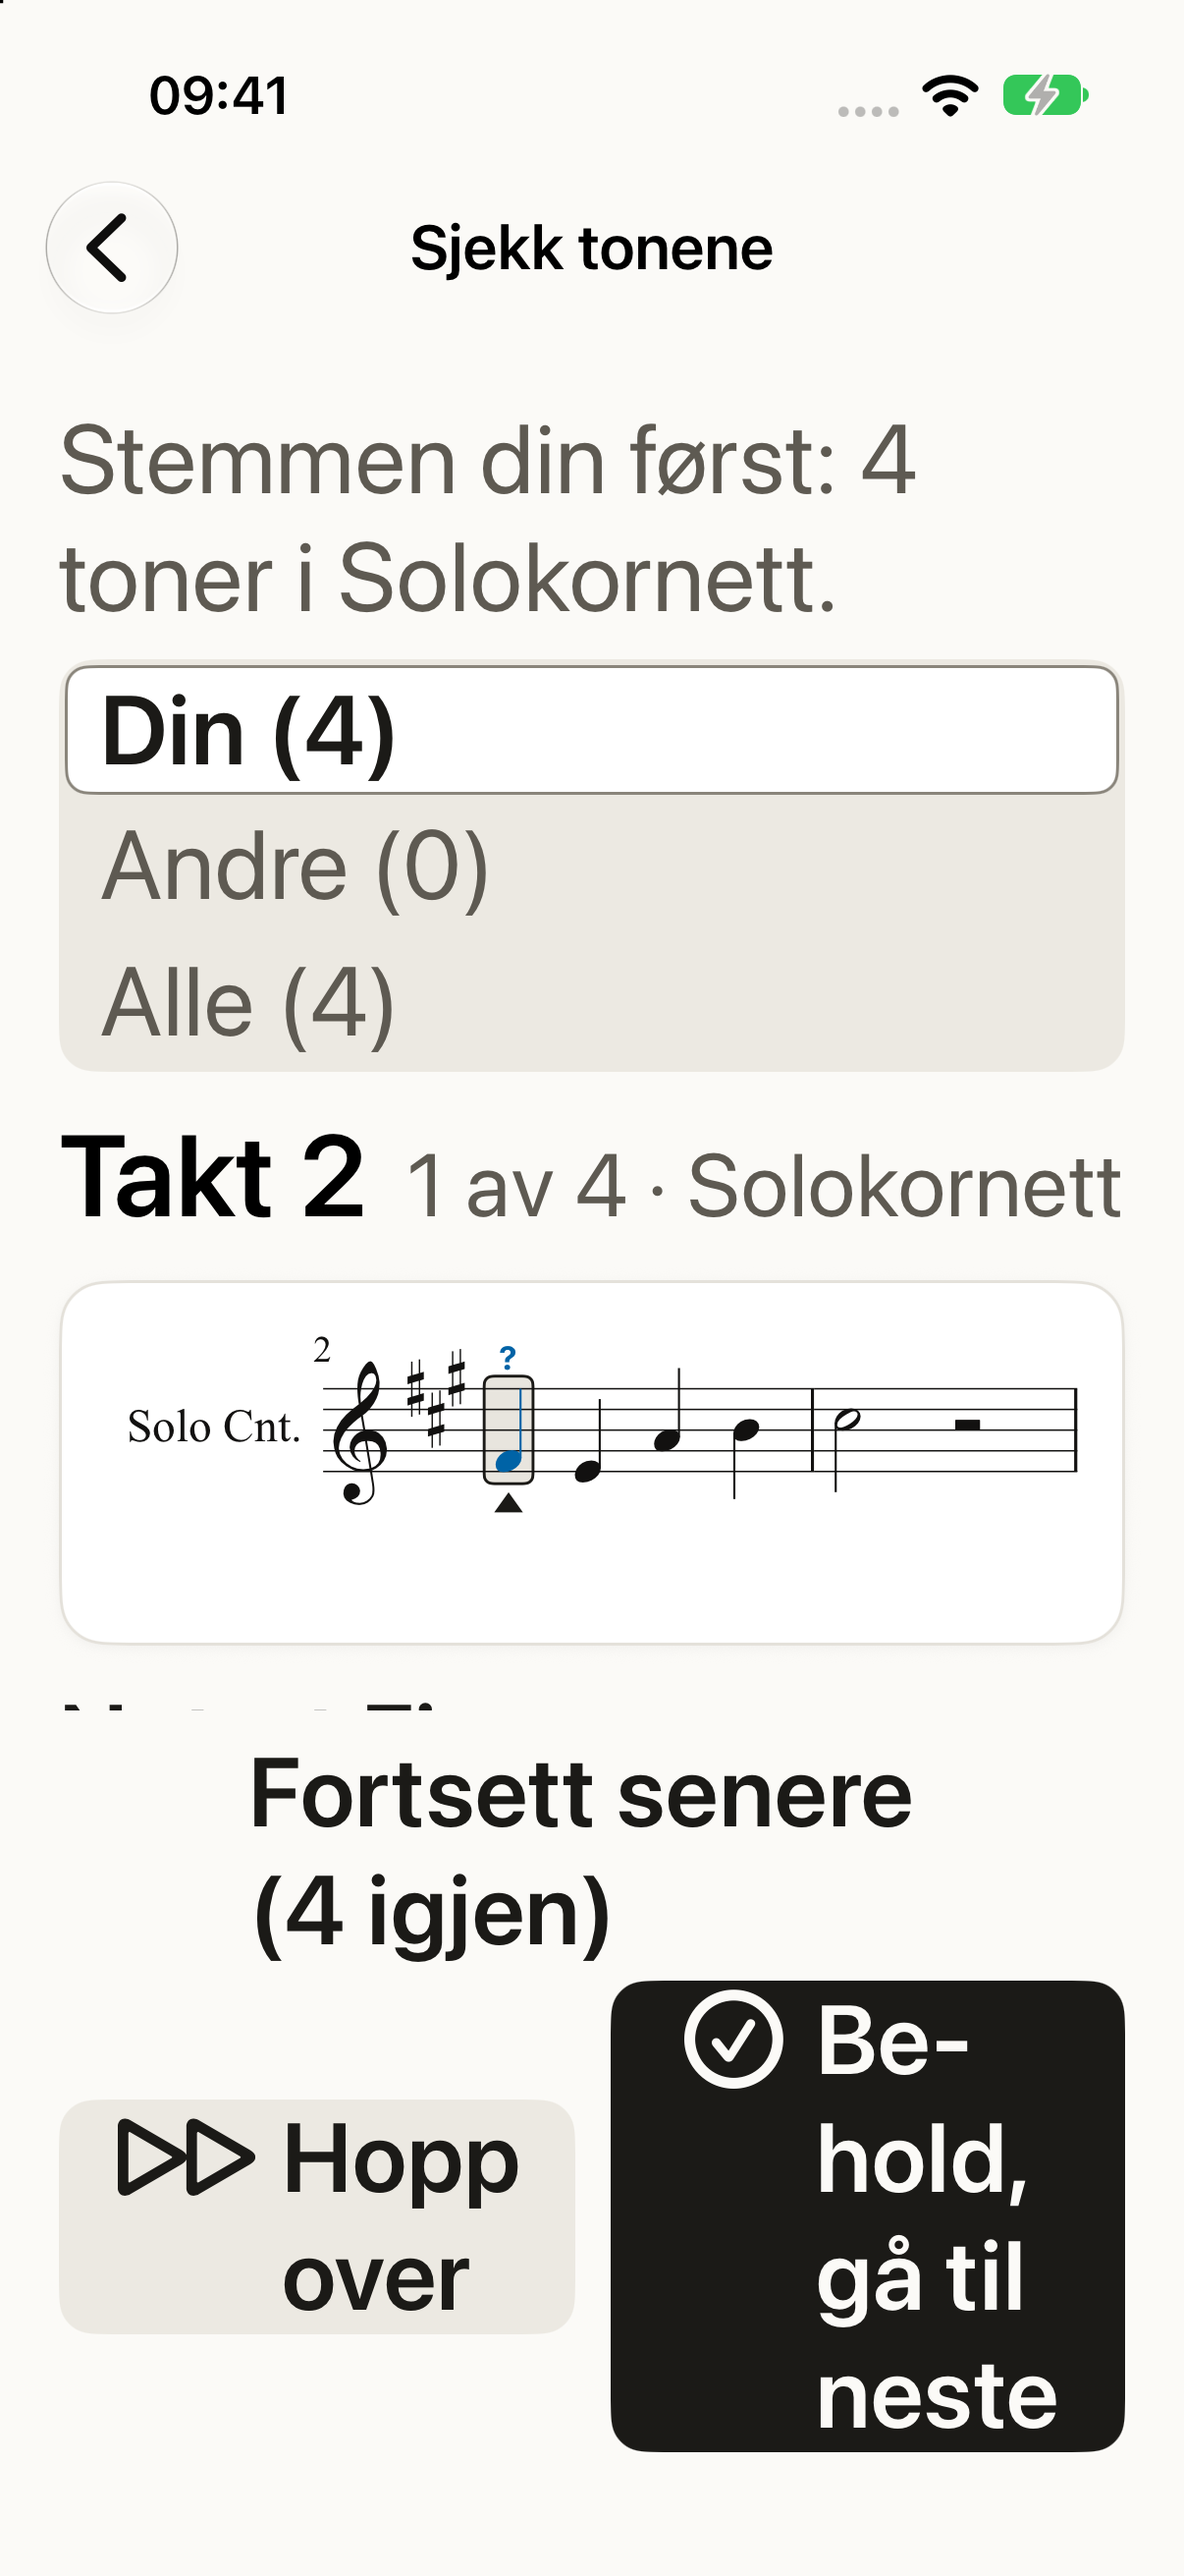
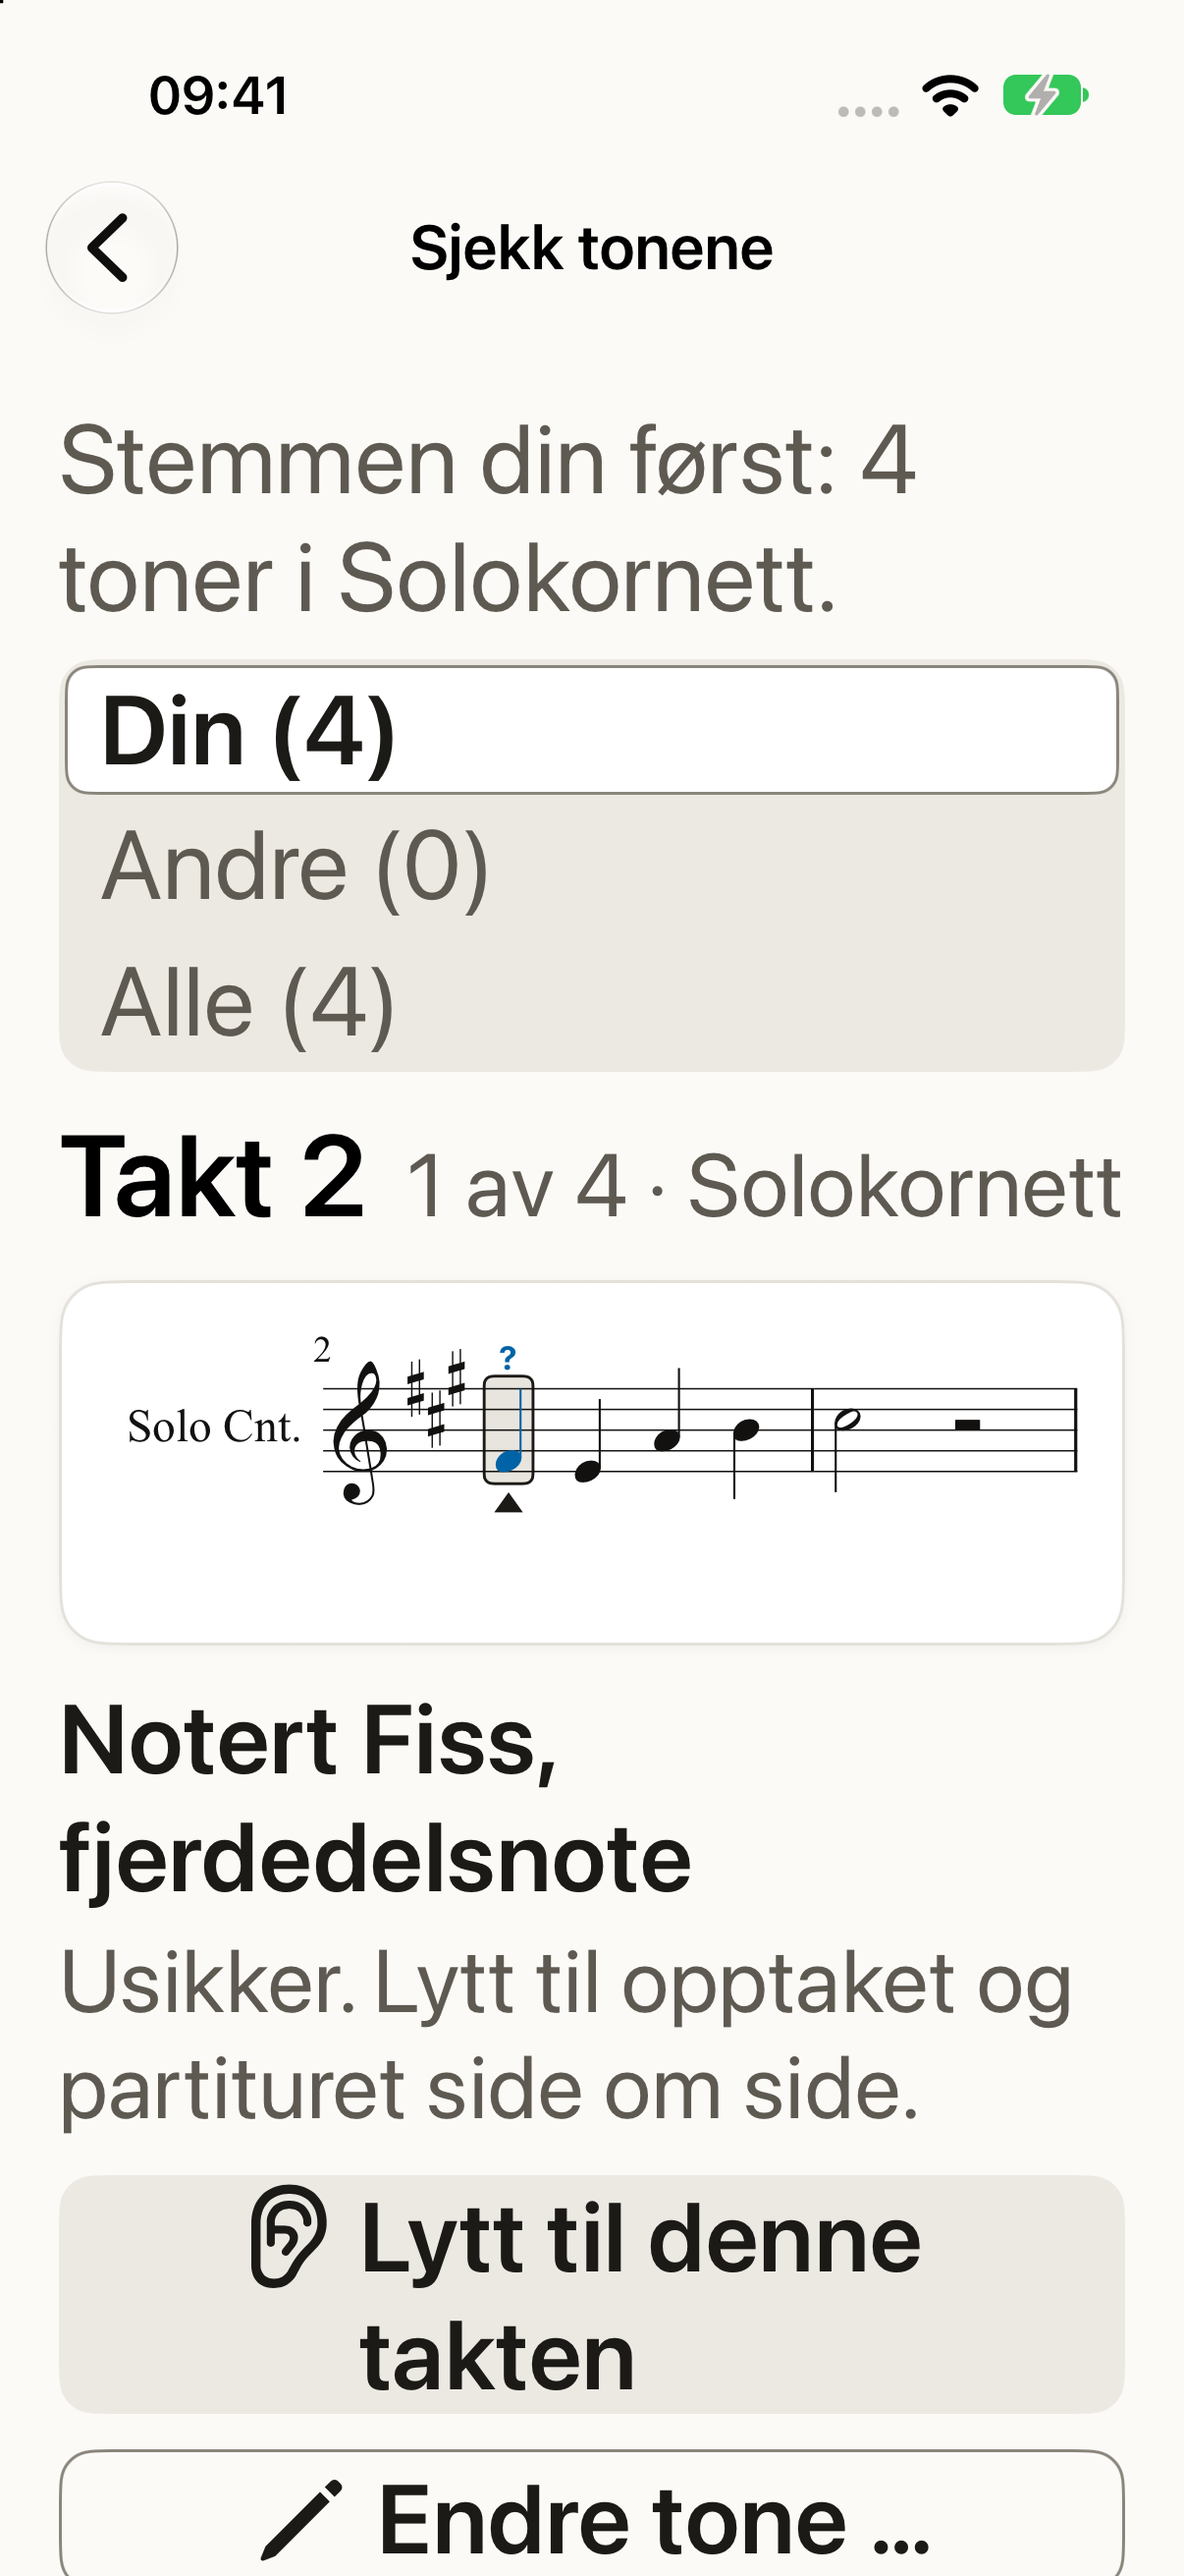
fix(apple): review actions follow the note at the accessibility text sizes
At the largest Dynamic Type sizes the bar pinned at the bottom of the
phone (Finish later, Skip, Keep) took half the screen, cut the note's
description off under it, and broke the button labels mid-word. At
those sizes the actions now follow the note in the page, as on the Mac,
with Keep and Skip one above the other at full width. The large-text
review screenshots are retaken.

diff --git a/apps/apple/App/Views/ReviewView.swift b/apps/apple/App/Views/ReviewView.swift
@@ -8,6 +8,7 @@ import TranscriptionKit
 struct ReviewView: View {
     @Environment(AppModel.self) private var app
     @Environment(\.horizontalSizeClass) private var horizontalSizeClass
+    @Environment(\.dynamicTypeSize) private var typeSize
     let piece: Piece
 
     @State private var model: PracticeModel?
@@ -27,6 +28,11 @@ struct ReviewView: View {
 
     /// Triage: your own part first (very unsure first), then the other parts, then all.
     enum Filter: Hashable { case mine, others, all }
+
+    /// Skip and Keep follow the note instead of staying pinned at the bottom: on the Mac, and at the
+    /// accessibility text sizes, where a pinned bar would cover most of the phone and leave the note
+    /// half hidden under it.
+    private var actionsFollow: Bool { PageActions.followContent || typeSize.isAccessibilitySize }
 
     private var wide: Bool {
         #if os(macOS)
@@ -104,7 +110,7 @@ struct ReviewView: View {
                 }
             }
         }
-        .bottomActions { if !allOpen.isEmpty, item != nil { actionBar } }
+        .safeAreaInset(edge: .bottom) { if !actionsFollow, !allOpen.isEmpty, item != nil { actionBar } }
         .alert("Finish checking later?", isPresented: $confirmLater) {
             Button("Finish later") { finish() }
             Button("Keep checking", role: .cancel) {}
@@ -241,8 +247,14 @@ struct ReviewView: View {
                     .buttonStyle(.plainText)
                     .accessibilityIdentifier("keepRestOfBar")
                 }
-                // Mac: Skip and Keep follow the note, before the evidence
-                if PageActions.followContent { actionButtons.padding(.top, Space.s2).layoutProbe("pageActions") }
+                // Mac and the largest text sizes: Skip and Keep follow the note, before the evidence
+                if actionsFollow {
+                    VStack(spacing: Space.s2) {
+                        if !wide { finishLaterButton }
+                        actionButtons
+                    }
+                    .padding(.top, Space.s2).layoutProbe("pageActions")
+                }
                 EvidencePanel(note: evidenceFor(it), fifths: fifths(it), part: model.score.parts[it.partIndex])
             }
             .accessibilityElement(children: .contain)
@@ -332,11 +344,7 @@ struct ReviewView: View {
 
     private var actionBar: some View {
         VStack(spacing: Space.s1) {
-            if !wide {
-                Button("Finish later (\(open.count) left)") { confirmLater = true }
-                    .buttonStyle(.plainText)
-                    .accessibilityIdentifier("openScore")
-            }
+            if !wide { finishLaterButton }
             actionButtons
         }
         .padding(.horizontal, wide ? Space.s8 : Space.s5)
@@ -344,7 +352,35 @@ struct ReviewView: View {
         .background(Color.Brasscribe.bg)
     }
 
-    private var actionButtons: some View {
+    private var finishLaterButton: some View {
+        Button("Finish later (\(open.count) left)") { confirmLater = true }
+            .buttonStyle(.plainText)
+            .accessibilityIdentifier("openScore")
+    }
+
+    /// Side by side; at the accessibility text sizes on a phone, where the labels would break
+    /// mid-word, one above the other at full width, Keep first.
+    @ViewBuilder private var actionButtons: some View {
+        if typeSize.isAccessibilitySize, !wide {
+            VStack(spacing: Space.s2) { keepButton; skipButton }
+        } else {
+            actionRow
+        }
+    }
+
+    private var skipButton: some View {
+        Button { skip() } label: { Label("Skip", systemImage: BrasscribeIcon.skip.systemName) }
+            .buttonStyle(SecondaryButtonStyle(fullWidth: true, minHeight: 48))
+    }
+
+    private var keepButton: some View {
+        Button { keep() } label: { Label("Keep, go to next", systemImage: BrasscribeIcon.markChecked.systemName) }
+            .buttonStyle(PrimaryButtonStyle(fullWidth: true))
+            .keyboardShortcut("k", modifiers: [])
+            .accessibilityIdentifier("keepNext")
+    }
+
+    private var actionRow: some View {
         HStack(spacing: Space.s3) {
             if wide {
                 // the keys, where there's room beside the buttons
